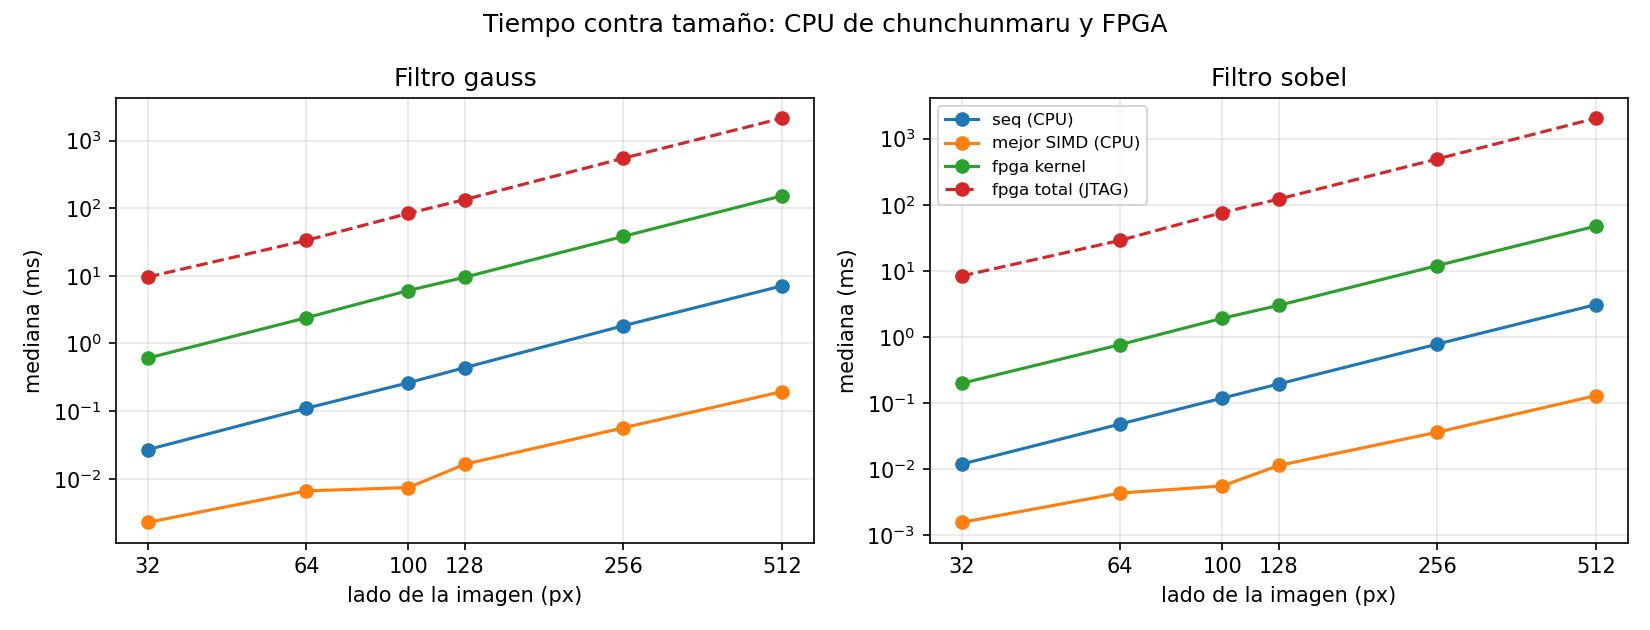
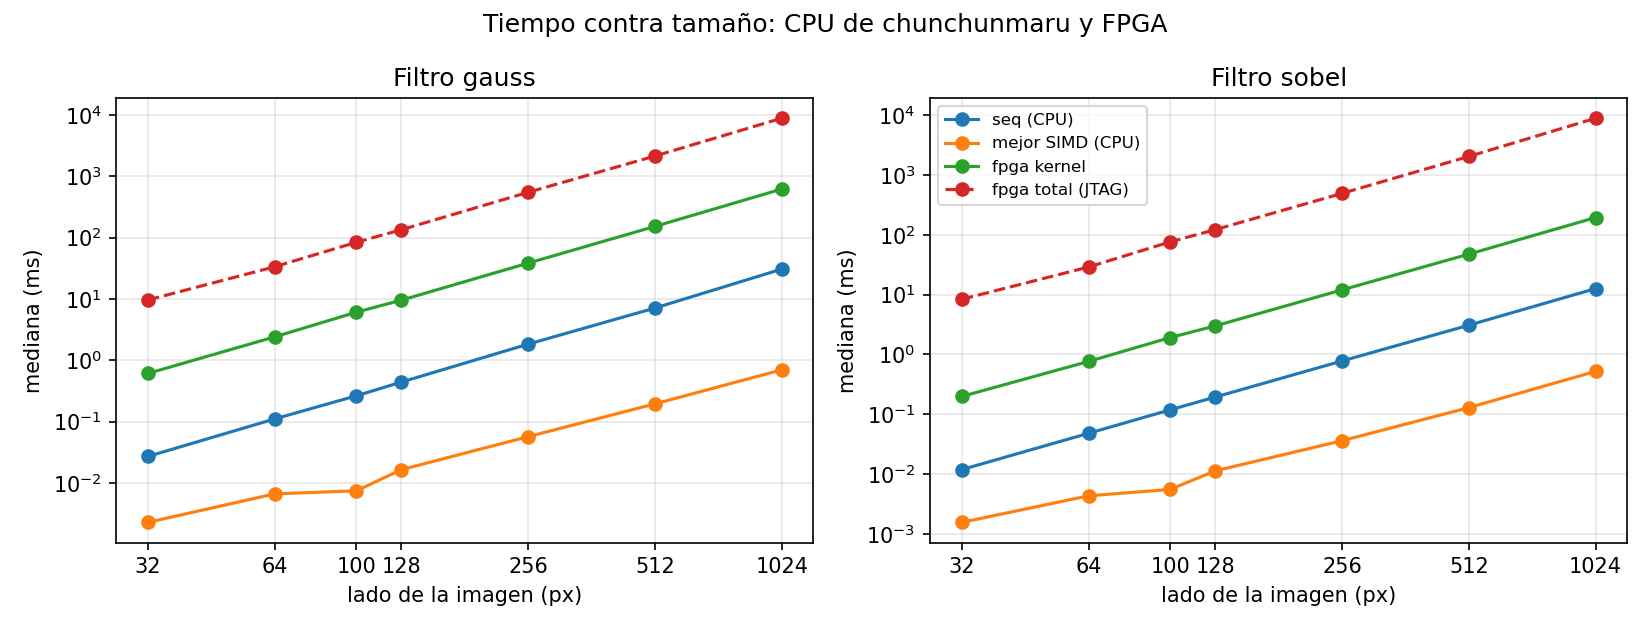
chore: regenerate the comparison and the efficiency with the 1024 data
1024x1024 is now a second size shared with the CPU and GPU machines. The
fpga kernel is about 20x (gauss) and 15x (sobel) slower than seq there, and
its peak utilization stays at 10.6 and 8.1 percent.

diff --git a/proyecto_2/results/figuras/comparativa_tabla.md b/proyecto_2/results/figuras/comparativa_tabla.md
@@ -6,29 +6,29 @@ Mismas imágenes y mismos filtros. La CPU se midió en la máquina conectada a l
 
 ### gauss: mediana en ms
 
-| | 32² | 64² | 100² | 128² | 256² | 512² |
-|---|---|---|---|---|---|---|
-| seq | 0.0269 | 0.110 | 0.263 | 0.440 | 1.831 | 7.108 |
-| mejor SIMD | 0.0023 (simd_sep) | 0.0066 (simd_sep512) | 0.0074 (simd_sep512) | 0.0164 (simd_sep512) | 0.0566 (simd_sep512) | 0.194 (simd_sep512) |
-| fpga kernel | 0.609 | 2.404 | 6.075 | 9.558 | 38.420 | 152.6 |
-| fpga total (con JTAG) | 9.620 | 33.498 | 83.976 | 134.6 | 550.5 | 2147.9 |
-| fpga kernel / total | 6.3 % | 7.2 % | 7.2 % | 7.1 % | 7.0 % | 7.1 % |
-| speedup del kernel contra seq | 0.044x | 0.046x | 0.043x | 0.046x | 0.048x | 0.047x |
-| speedup del total contra seq | 0.003x | 0.003x | 0.003x | 0.003x | 0.003x | 0.003x |
-| speedup del mejor SIMD contra seq | 11.9x | 16.7x | 35.5x | 26.9x | 32.3x | 36.6x |
+| | 32² | 64² | 100² | 128² | 256² | 512² | 1024² |
+|---|---|---|---|---|---|---|---|
+| seq | 0.0269 | 0.110 | 0.263 | 0.440 | 1.831 | 7.108 | 30.692 |
+| mejor SIMD | 0.0023 (simd_sep) | 0.0066 (simd_sep512) | 0.0074 (simd_sep512) | 0.0164 (simd_sep512) | 0.0566 (simd_sep512) | 0.194 (simd_sep512) | 0.697 (simd_sep512) |
+| fpga kernel | 0.609 | 2.404 | 6.075 | 9.558 | 38.420 | 152.6 | 620.5 |
+| fpga total (con JTAG) | 9.620 | 33.498 | 83.976 | 134.6 | 550.5 | 2147.9 | 8892.9 |
+| fpga kernel / total | 6.3 % | 7.2 % | 7.2 % | 7.1 % | 7.0 % | 7.1 % | 7.0 % |
+| speedup del kernel contra seq | 0.044x | 0.046x | 0.043x | 0.046x | 0.048x | 0.047x | 0.049x |
+| speedup del total contra seq | 0.003x | 0.003x | 0.003x | 0.003x | 0.003x | 0.003x | 0.003x |
+| speedup del mejor SIMD contra seq | 11.9x | 16.7x | 35.5x | 26.9x | 32.3x | 36.6x | 44.0x |
 
 ### sobel: mediana en ms
 
-| | 32² | 64² | 100² | 128² | 256² | 512² |
-|---|---|---|---|---|---|---|
-| seq | 0.0119 | 0.0482 | 0.119 | 0.194 | 0.779 | 3.085 |
-| mejor SIMD | 0.0016 (simd_sep) | 0.0043 (simd_sep) | 0.0056 (simd_sep512) | 0.0114 (simd_sep512) | 0.0363 (simd_sep512) | 0.129 (simd_sep512) |
-| fpga kernel | 0.199 | 0.765 | 1.915 | 3.004 | 12.000 | 47.503 |
-| fpga total (con JTAG) | 8.359 | 28.934 | 76.083 | 121.9 | 492.1 | 2036.4 |
-| fpga kernel / total | 2.4 % | 2.6 % | 2.5 % | 2.5 % | 2.4 % | 2.3 % |
-| speedup del kernel contra seq | 0.060x | 0.063x | 0.062x | 0.065x | 0.065x | 0.065x |
-| speedup del total contra seq | 0.001x | 0.002x | 0.002x | 0.002x | 0.002x | 0.002x |
-| speedup del mejor SIMD contra seq | 7.61x | 11.1x | 21.3x | 17.1x | 21.5x | 23.8x |
+| | 32² | 64² | 100² | 128² | 256² | 512² | 1024² |
+|---|---|---|---|---|---|---|---|
+| seq | 0.0119 | 0.0482 | 0.119 | 0.194 | 0.779 | 3.085 | 12.612 |
+| mejor SIMD | 0.0016 (simd_sep) | 0.0043 (simd_sep) | 0.0056 (simd_sep512) | 0.0114 (simd_sep512) | 0.0363 (simd_sep512) | 0.129 (simd_sep512) | 0.522 (simd_sep512) |
+| fpga kernel | 0.199 | 0.765 | 1.915 | 3.004 | 12.000 | 47.503 | 194.0 |
+| fpga total (con JTAG) | 8.359 | 28.934 | 76.083 | 121.9 | 492.1 | 2036.4 | 8865.2 |
+| fpga kernel / total | 2.4 % | 2.6 % | 2.5 % | 2.5 % | 2.4 % | 2.3 % | 2.2 % |
+| speedup del kernel contra seq | 0.060x | 0.063x | 0.062x | 0.065x | 0.065x | 0.065x | 0.065x |
+| speedup del total contra seq | 0.001x | 0.002x | 0.002x | 0.002x | 0.002x | 0.002x | 0.001x |
+| speedup del mejor SIMD contra seq | 7.61x | 11.1x | 21.3x | 17.1x | 21.5x | 23.8x | 24.1x |
 
 ## Todas las plataformas en 512² (el tamaño común)
 
@@ -48,3 +48,22 @@ El speedup de cada fila es contra el `seq` de **su propia máquina**. Las column
 | chunchunmaru (CPU de la FPGA) | mejor SIMD (simd_sep512) | 0.194 | 36.6x | 0.129 | 23.8x |
 | FPGA fpga | kernel (ciclos / 50 MHz) | 152.6 | 0.047x | 47.503 | 0.065x |
 | FPGA fpga | total con JTAG | 2147.9 | 0.003x | 2036.4 | 0.002x |
+
+## Todas las plataformas en 1024² (el tamaño común)
+
+El speedup de cada fila es contra el `seq` de **su propia máquina**. Las columnas de CUDA con copias incluyen el viaje de la imagen a la GPU y de vuelta; el kernel no.
+
+| Plataforma | Dato | gauss (ms) | gauss speedup | sobel (ms) | sobel speedup |
+|---|---|---|---|---|---|
+| gabriel-ASUS-TUF-Gaming-A15-FA507RE-FA507RE | seq | 21.955 | 1.00x | 10.124 | 1.00x |
+| gabriel-ASUS-TUF-Gaming-A15-FA507RE-FA507RE | mejor SIMD (simd_sep) | 0.702 | 31.3x | 0.616 | 16.4x |
+| gabriel-ASUS-TUF-Gaming-A15-FA507RE-FA507RE | mejor CUDA con copias (cuda_tiled) | 0.427 | 51.5x | 0.388 | 26.1x |
+| gabriel-ASUS-TUF-Gaming-A15-FA507RE-FA507RE | mejor CUDA solo kernel (cuda_tiled) | 0.118 | 185.6x | 0.0564 | 179.4x |
+| msi-ema | seq | 28.847 | 1.00x | 12.214 | 1.00x |
+| msi-ema | mejor SIMD (simd_sep512) | 0.645 | 44.7x | 0.551 | 22.2x |
+| msi-ema | mejor CUDA con copias (cuda_tiled) | 0.626 | 46.1x | 0.601 | 20.3x |
+| msi-ema | mejor CUDA solo kernel (cuda_tiled) | 0.0770 | 374.8x | 0.0420 | 291.1x |
+| chunchunmaru (CPU de la FPGA) | seq | 30.692 | 1.00x | 12.612 | 1.00x |
+| chunchunmaru (CPU de la FPGA) | mejor SIMD (simd_sep512) | 0.697 | 44.0x | 0.522 | 24.1x |
+| FPGA fpga | kernel (ciclos / 50 MHz) | 620.5 | 0.049x | 194.0 | 0.065x |
+| FPGA fpga | total con JTAG | 8892.9 | 0.003x | 8865.2 | 0.001x |

diff --git a/proyecto_2/results/figuras/eficiencia_paralela.md b/proyecto_2/results/figuras/eficiencia_paralela.md
@@ -56,20 +56,20 @@ E_peak = (píxeles x taps no nulos) / (ciclos transcurridos x SMs x carriles FP3
 
 ### gauss
 
-| | 32² | 64² | 100² | 128² | 256² | 512² |
-|---|---|---|---|---|---|---|
-| S (kernel contra seq) | 0.044x | 0.046x | 0.043x | 0.046x | 0.048x | 0.047x |
-| E clásica | 0.55 % | 0.57 % | 0.54 % | 0.58 % | 0.60 % | 0.58 % |
-| GMAC/s | 0.042 | 0.043 | 0.041 | 0.043 | 0.043 | 0.043 |
-| E_peak, propuesta 1 (medida) | 10.5 % | 10.7 % | 10.3 % | 10.7 % | 10.7 % | 10.7 % |
-| E_peak, propuesta 2 (estimada) | 25.5 % | 25.8 % | 24.9 % | 25.9 % | 26.0 % | 26.0 % |
+| | 32² | 64² | 100² | 128² | 256² | 512² | 1024² |
+|---|---|---|---|---|---|---|---|
+| S (kernel contra seq) | 0.044x | 0.046x | 0.043x | 0.046x | 0.048x | 0.047x | 0.049x |
+| E clásica | 0.55 % | 0.57 % | 0.54 % | 0.58 % | 0.60 % | 0.58 % | 0.62 % |
+| GMAC/s | 0.042 | 0.043 | 0.041 | 0.043 | 0.043 | 0.043 | 0.042 |
+| E_peak, propuesta 1 (medida) | 10.5 % | 10.7 % | 10.3 % | 10.7 % | 10.7 % | 10.7 % | 10.6 % |
+| E_peak, propuesta 2 (estimada) | 25.5 % | 25.8 % | 24.9 % | 25.9 % | 26.0 % | 26.0 % | 26.0 % |
 
 ### sobel
 
-| | 32² | 64² | 100² | 128² | 256² | 512² |
-|---|---|---|---|---|---|---|
-| S (kernel contra seq) | 0.060x | 0.063x | 0.062x | 0.065x | 0.065x | 0.065x |
-| E clásica | 0.75 % | 0.79 % | 0.78 % | 0.81 % | 0.81 % | 0.81 % |
-| GMAC/s | 0.031 | 0.032 | 0.031 | 0.033 | 0.033 | 0.033 |
-| E_peak, propuesta 1 (medida) | 7.72 % | 8.03 % | 7.83 % | 8.18 % | 8.19 % | 8.28 % |
-| E_peak, propuesta 2 (estimada) | 20.8 % | 21.5 % | 20.9 % | 21.9 % | 22.0 % | 22.1 % |
+| | 32² | 64² | 100² | 128² | 256² | 512² | 1024² |
+|---|---|---|---|---|---|---|---|
+| S (kernel contra seq) | 0.060x | 0.063x | 0.062x | 0.065x | 0.065x | 0.065x | 0.065x |
+| E clásica | 0.75 % | 0.79 % | 0.78 % | 0.81 % | 0.81 % | 0.81 % | 0.81 % |
+| GMAC/s | 0.031 | 0.032 | 0.031 | 0.033 | 0.033 | 0.033 | 0.032 |
+| E_peak, propuesta 1 (medida) | 7.72 % | 8.03 % | 7.83 % | 8.18 % | 8.19 % | 8.28 % | 8.11 % |
+| E_peak, propuesta 2 (estimada) | 20.8 % | 21.5 % | 20.9 % | 21.9 % | 22.0 % | 22.1 % | 22.2 % |
